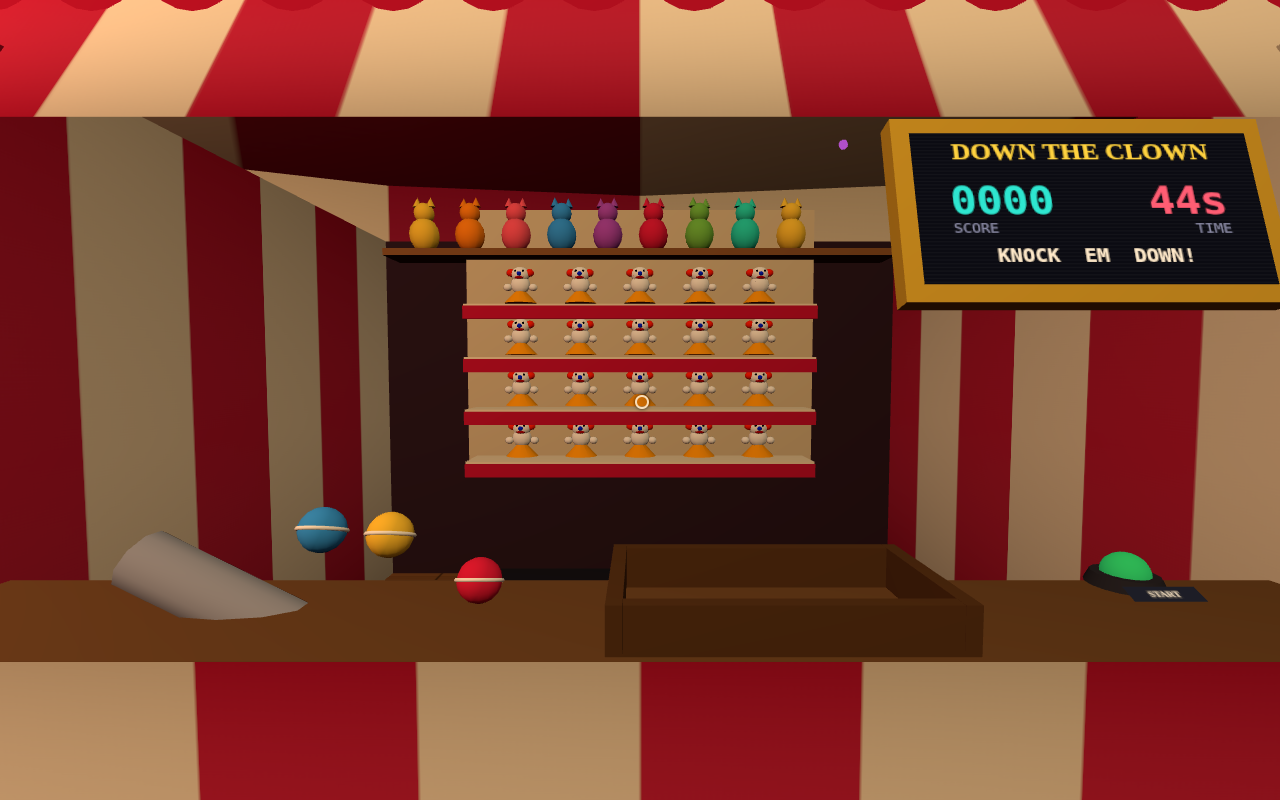
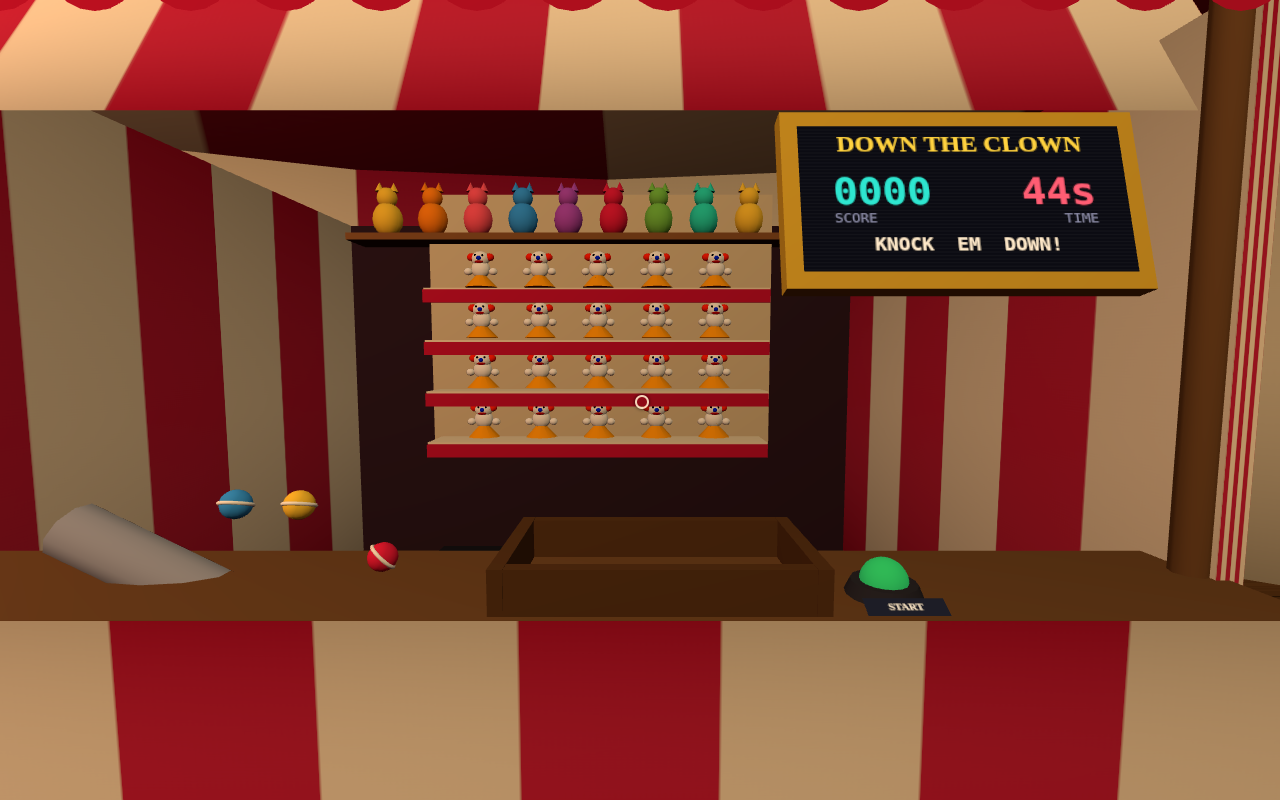
Smaller toss balls, buttons near play area, exit bell at centre pole
1. Down the Clown balls shrunk ~30% (radius 0.062 -> 0.043, plum-sized) —
   they felt oversized

2. Booth buttons moved beside the play area and paired up so they're an
   easy straight-on reach instead of off to the far right:
   - BoothBase takes a startButtonLocal override
   - Ball toss START sits right of the ball tray
   - Balloon darts START + RESET sit side by side next to the dart rack

3. Exit bell: a brass service bell on a striped post by the centre pole
   with a glowing green EXIT sign. Pull the cord (VR) or press E (desktop)
   to ring out — ends the XR session / returns to the splash screen and
   suspends audio; the enter buttons resume it. New ExitBell component +
   AudioManager suspend/resume.

Also widened the desktop interact window 200->350ms so an E press and the
in-range check can land on different frames (matters on slow frames).

Verified headless: gameplay unchanged, exit bell rings and returns to
splash with audio suspended, re-entry resumes.

Claude-Session: https://claude.ai/code/session_01MoQaP7ADydoDvBieeHcWMh

diff --git a/src/components/ExitBell.js b/src/components/ExitBell.js
@@ -1,0 +1,157 @@
+import * as THREE from 'three';
+
+/**
+ * ExitBell — a clearly-marked brass service bell on a striped post beside
+ * the tent's centre pole. Pull the hanging cord (or touch the bell) to
+ * ring it and fully exit the experience: it calls `onExit`, which ends the
+ * VR session / drops back to the splash screen and pauses all audio.
+ *
+ * Interaction mirrors PushButton: in XR, bring a controller to the cord or
+ * bell; on desktop, look at it from close range and press E. A cooldown
+ * plus a visible ring-swing animation confirm the pull.
+ */
+
+const _v1 = new THREE.Vector3();
+const _v2 = new THREE.Vector3();
+
+export class ExitBell {
+  /**
+   * @param {object} deps { input, audio, world }
+   * @param {object} opts { onExit }
+   */
+  constructor({ input, audio, world }, { onExit } = {}) {
+    this.input = input;
+    this.audio = audio;
+    this.world = world;
+    this.onExit = onExit;
+    this._cooldown = 0;
+    this._swing = 0;      // bell swing animation phase
+    this._ringT = 0;
+
+    this.group = new THREE.Group();
+    this.#build();
+    world.onUpdate((dt, t) => this.#update(dt, t));
+  }
+
+  #build() {
+    const brass = new THREE.MeshLambertMaterial({ color: 0xd4af37, emissive: 0x3a2c05 });
+    const postMat = new THREE.MeshLambertMaterial({ color: 0xb01030 });
+
+    // striped candy post
+    const post = new THREE.Mesh(new THREE.CylinderGeometry(0.045, 0.05, 1.55, 12), postMat);
+    post.position.y = 0.775;
+    this.group.add(post);
+    // white barber-pole bands
+    const bandMat = new THREE.MeshLambertMaterial({ color: 0xf6ead7 });
+    for (let i = 0; i < 6; i++) {
+      const band = new THREE.Mesh(new THREE.TorusGeometry(0.048, 0.014, 6, 14), bandMat);
+      band.rotation.x = Math.PI / 2;
+      band.position.y = 0.2 + i * 0.24;
+      this.group.add(band);
+    }
+
+    // cross-arm the bell hangs from
+    const arm = new THREE.Mesh(new THREE.BoxGeometry(0.4, 0.05, 0.05), brass);
+    arm.position.set(0.12, 1.55, 0);
+    this.group.add(arm);
+
+    // the bell itself (open-bottomed dome) swings under the arm
+    this.bellPivot = new THREE.Group();
+    this.bellPivot.position.set(0.28, 1.53, 0);
+    const bell = new THREE.Mesh(
+      new THREE.SphereGeometry(0.11, 16, 10, 0, Math.PI * 2, 0, Math.PI / 2.1),
+      brass,
+    );
+    bell.rotation.x = Math.PI;          // open side down
+    bell.position.y = -0.11;
+    const yoke = new THREE.Mesh(new THREE.TorusGeometry(0.02, 0.008, 6, 10), brass);
+    const clapper = new THREE.Mesh(new THREE.SphereGeometry(0.022, 8, 6),
+      new THREE.MeshLambertMaterial({ color: 0x6b4a2c }));
+    clapper.position.y = -0.16;
+    this.bellPivot.add(bell, yoke, clapper);
+    this.group.add(this.bellPivot);
+
+    // the pull cord: a rope down to grab/pull height with a wooden knob
+    this.cord = new THREE.Mesh(
+      new THREE.CylinderGeometry(0.008, 0.008, 0.5, 6),
+      new THREE.MeshLambertMaterial({ color: 0xe8e0cf }),
+    );
+    this.cord.position.set(0.28, 1.16, 0);
+    const knob = new THREE.Mesh(new THREE.SphereGeometry(0.03, 10, 8),
+      new THREE.MeshLambertMaterial({ color: 0x8a2f1f }));
+    knob.position.y = -0.26;
+    this.cord.add(knob);
+    this.group.add(this.cord);
+    this._cordWorld = new THREE.Vector3();
+
+    // big obvious EXIT sign on top
+    const canvas = document.createElement('canvas');
+    canvas.width = 256; canvas.height = 128;
+    const ctx = canvas.getContext('2d');
+    ctx.fillStyle = '#0a0a0a'; ctx.fillRect(0, 0, 256, 128);
+    ctx.strokeStyle = '#39ff6a'; ctx.lineWidth = 8; ctx.strokeRect(8, 8, 240, 112);
+    ctx.fillStyle = '#39ff6a';
+    ctx.font = 'bold 64px Georgia, serif';
+    ctx.textAlign = 'center'; ctx.textBaseline = 'middle';
+    ctx.fillText('EXIT', 128, 60);
+    ctx.font = '22px Georgia, serif';
+    ctx.fillText('ring to leave', 128, 104);
+    const tex = new THREE.CanvasTexture(canvas);
+    tex.colorSpace = THREE.SRGBColorSpace;
+    // double-sided sign so it reads from any approach
+    const sign = new THREE.Mesh(
+      new THREE.PlaneGeometry(0.6, 0.3),
+      new THREE.MeshBasicMaterial({ map: tex, toneMapped: false, side: THREE.DoubleSide }),
+    );
+    sign.position.set(0.12, 1.95, 0);
+    this.group.add(sign);
+    // a soft green glow marker so it's findable across the tent
+    this.group.add(new THREE.PointLight(0x39ff6a, 3, 3, 2));
+  }
+
+  #update(dt, t) {
+    this._cooldown = Math.max(0, this._cooldown - dt);
+
+    // ring-swing + clapper animation decays after a pull
+    if (this._ringT > 0) {
+      this._ringT -= dt;
+      const a = Math.sin(t * 34) * 0.35 * Math.max(0, this._ringT / 0.8);
+      this.bellPivot.rotation.z = a;
+      this.cord.position.y = 1.16 + Math.min(0, -Math.abs(a) * 0.04);
+    } else {
+      this.bellPivot.rotation.z *= 1 - Math.min(1, dt * 6);
+    }
+
+    if (this._cooldown > 0) return;
+
+    // interaction target = the cord knob (world space)
+    this.cord.getWorldPosition(this._cordWorld);
+    this._cordWorld.y -= 0.26;
+    this.bellPivot.getWorldPosition(_v2);
+
+    if (this.input.isXR) {
+      for (const hand of this.input.hands) {
+        if (!hand.connected) continue;
+        if (hand.gripPosition.distanceTo(this._cordWorld) < 0.13 ||
+            hand.gripPosition.distanceTo(_v2) < 0.14) {
+          this.#ring(hand);
+          return;
+        }
+      }
+    } else {
+      this.world.camera.getWorldPosition(_v1);
+      if (_v1.distanceTo(this._cordWorld) < 2.4 && this.input.consumeInteract()) {
+        this.#ring(null);
+      }
+    }
+  }
+
+  #ring(hand) {
+    this._cooldown = 1.5;
+    this._ringT = 0.8;
+    if (hand) hand.pulse(1, 90);
+    this.audio.play('bell', { at: this.group, volume: 1, rate: 0.9 });
+    // let the bell sound land, then exit
+    setTimeout(() => this.onExit && this.onExit(), 650);
+  }
+}

diff --git a/src/main.js b/src/main.js
@@ -6,6 +6,7 @@ import { Locomotion } from './core/Locomotion.js';
 import { AudioManager } from './core/AudioManager.js';
 import { Tent, TENT_RADIUS } from './env/Tent.js';
 import { ComingSoonBooth } from './components/BoothBase.js';
+import { ExitBell } from './components/ExitBell.js';
 import { BallTossGame } from './games/BallTossGame.js';
 import { BalloonDartGame } from './games/BalloonDartGame.js';
 
@@ -52,6 +53,28 @@ const overlay = document.getElementById('overlay');
 const btnVR = document.getElementById('btn-vr');
 const btnDesktop = document.getElementById('btn-desktop');
 const loading = document.getElementById('loading');
+
+/**
+ * Fully leave the experience: end the VR session (or release the desktop
+ * pointer lock), bring the splash screen back, and pause all audio. The
+ * enter buttons resume from here.
+ */
+function exitExperience() {
+  audio.suspend();
+  const session = world.renderer.xr.getSession();
+  if (session) {
+    session.end().catch(() => {});          // 'end' handler reveals the overlay
+  } else {
+    if (document.pointerLockElement) document.exitPointerLock();
+    overlay.classList.remove('hidden');
+  }
+}
+
+// ---- exit bell at the centre pole ----------------------------------------
+const exitBell = new ExitBell(deps, { onExit: exitExperience });
+exitBell.group.position.set(-0.55, 0, 0.7);
+exitBell.group.rotation.y = -0.5;           // angle the sign toward the spawn
+world.scene.add(exitBell.group);
 
 async function boot() {
   await audio.load();
@@ -104,4 +127,4 @@ boot();
 world.start();
 
 // dev convenience: expose for console poking
-window.__carnival = { world, games, tent, input, deps };
+window.__carnival = { world, games, tent, input, deps, exitBell, exitExperience };

diff --git a/src/components/BoothBase.js b/src/components/BoothBase.js
@@ -50,13 +50,17 @@ export class BoothBase {
     this.scoreboard.group.rotation.x = -0.25;
     this.group.add(this.scoreboard.group);
 
-    // start button on the counter, right of centre
+    // start button on the counter. Games place it near their play area via
+    // startButtonLocal so it's easy to reach and reads straight-on; default
+    // is toward the front-right of the counter.
     this.startButton = new PushButton(deps, {
       color: 0x2ecc71,
       label: 'START',
       onPress: () => opts.onStart && opts.onStart(),
     });
-    this.startButton.group.position.set(this.width / 2 - 0.55, COUNTER_HEIGHT + 0.03, this.depth / 2 - 0.18);
+    const sb = opts.startButtonLocal
+      ?? new THREE.Vector3(this.width / 2 - 0.55, COUNTER_HEIGHT + 0.03, this.depth / 2 - 0.18);
+    this.startButton.group.position.copy(sb);
     this.group.add(this.startButton.group);
 
     // physics: players can't walk into the booth

diff --git a/src/core/AudioManager.js b/src/core/AudioManager.js
@@ -85,12 +85,18 @@ export class AudioManager {
 
   /** Must be called from a user gesture / XR session start. */
   start(scene, musicAnchor) {
+    this.resume();
     if (this.started) return;
     this.started = true;
-    if (this.ctx.state === 'suspended') this.ctx.resume();
     this.#startCrowdBed();
     this.#startMusic(musicAnchor);
   }
+
+  /** Pause all audio (used on exit). Ambience/music resume where they left off. */
+  suspend() { if (this.ctx.state === 'running') this.ctx.suspend(); }
+
+  /** Resume after a suspend (called by the enter buttons). */
+  resume() { if (this.ctx.state === 'suspended') this.ctx.resume(); }
 
   /**
    * Play a named sample.

diff --git a/src/core/Input.js b/src/core/Input.js
@@ -216,11 +216,13 @@ export class Input {
   }
 
   /**
-   * Desktop "E" edge — consumed by PushButton checks. Expires after 200ms so
-   * a press with nothing in range doesn't linger and fire later.
+   * Desktop "E" edge — consumed by PushButton / ExitBell checks. Expires
+   * after 350ms so a press with nothing in range doesn't linger, while
+   * still surviving a slow frame (the press and the in-range check can land
+   * on different frames).
    */
   consumeInteract() {
-    if (this._interactAt && performance.now() - this._interactAt < 200) {
+    if (this._interactAt && performance.now() - this._interactAt < 350) {
       this._interactAt = 0;
       return true;
     }

diff --git a/src/games/BalloonDartGame.js b/src/games/BalloonDartGame.js
@@ -52,6 +52,9 @@ export class BalloonDartGame extends MiniGame {
       colorA: '#1d2a63', colorB: '#ffd23f',
       signColors: { bg: '#7a1f33', fg: '#ffd23f' },
       shelfY: 2.46, // the 5ft balloon board needs the wall below it clear
+      // START + RESET sit side by side just right of the dart tray so both
+      // are an easy, straight-on reach from the throwing spot
+      startButtonLocal: new THREE.Vector3(0.0, 0.98, 1.45),
       onStart: () => this.tryStart(),
     });
     this.booth.group.updateWorldMatrix(true, true);
@@ -267,7 +270,8 @@ export class BalloonDartGame extends MiniGame {
       },
     });
     const h = this.booth.counterHeight;
-    this.resetButton.group.position.set(0.55, h + 0.03, 1.42);
+    // sits right next to START (at x=0) — the two buttons read as a pair
+    this.resetButton.group.position.set(0.4, h + 0.03, 1.45);
     this.booth.group.add(this.resetButton.group);
   }
 

diff --git a/src/games/BallTossGame.js b/src/games/BallTossGame.js
@@ -24,7 +24,7 @@ import { CARNIVAL_PALETTE } from '../core/textures.js';
  */
 
 const BALL_COUNT = 6;
-const BALL_RADIUS = 0.062;
+const BALL_RADIUS = 0.043;    // ~plum-sized foam ball (was 0.062, ~30% smaller)
 const COLS = 5;
 const ROWS = 4;               // 4 rows leaves real headroom between shelves
 const ROW_SPACING = 0.36;     // dolls are ~0.27 tall; ~6cm of air above each
@@ -47,6 +47,9 @@ export class BallTossGame extends MiniGame {
       colorA: '#c2183c', colorB: '#f6ead7',
       signColors: { bg: '#2a0f38', rainbow: true, sub: '6 BALLS · KNOCK EM ALL DOWN!' },
       shelfY: 2.46, // prize shelf clears the top clown row
+      // START sits just right of the ball tray (tray centre x=0.35), near
+      // the front of the counter so it's an easy straight-on reach
+      startButtonLocal: new THREE.Vector3(0.95, 0.98, 1.62),
       onStart: () => this.tryStart(),
     });
     const g = this.booth.group;

diff --git a/index.html b/index.html
@@ -62,6 +62,7 @@
       <div><b>QUEST</b> &nbsp;Grip: grab balls &amp; darts &middot; swing + release to throw</div>
       <div>Left stick: walk &middot; Right stick fwd: teleport &middot; Right stick left/right: snap turn</div>
       <div>Poke the big buttons on the counters to start / reset a game.</div>
+      <div>Ring the <b>EXIT</b> bell at the centre pole to leave.</div>
       <div style="margin-top:8px"><b>DESKTOP</b> &nbsp;WASD move &middot; mouse look &middot; click: grab, click again: throw</div>
       <div>E: press buttons &middot; Esc: release mouse</div>
     </div>

diff --git a/README.md b/README.md
@@ -24,6 +24,10 @@ teleport between.
 Four more pads stand roped off with "coming soon" marquees:
 Ring Toss, Milk Bottles, Whack-a-Mole, Skee-Ball.
 
+A brass **EXIT bell** on a striped post by the tent's centre pole ends the
+experience — pull its cord (or press `E` on desktop) to ring out, drop back
+to the splash screen and pause the audio.
+
 ![Ball toss booth](docs/balltoss.png)
 ![Balloon dart booth](docs/darts.png)
 
@@ -53,7 +57,7 @@ gives you a mouse/keyboard version of the same tent.
 | Teleport | push right stick forward, aim arc, release | — |
 | Grab ball/dart | grip or trigger near the object | click (nearest object ahead) |
 | Throw | swing arm + release grip | click again (throws along view) |
-| Buttons | physically poke the dome | look at it up close, press `E` |
+| Buttons / exit bell | physically poke / touch | look at it up close, press `E` |
 
 ## Project layout
 